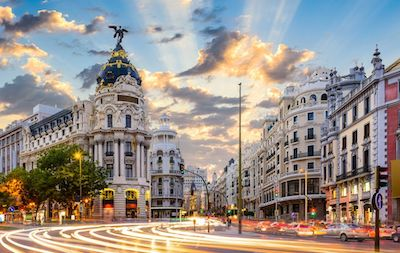
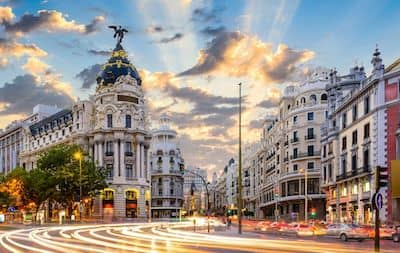
image optimization

diff --git a/index.html b/index.html
@@ -166,15 +166,15 @@
 									<div class="6u 12u(narrower)">
 
 										<section>
-											<a href="https://www.meetup.com/Tokyo-Stoicism-Meetup-Group/" target="_blank" class="image featured"><img src="images/tokyo-stoics.jpeg" alt="Tokyo Stoics" /></a>
+											<a href="https://nestoics.org/" target="_blank" class="image featured"><img src="images/new-england.jpeg" alt="New England Stoics" /></a>
 											<header>
-												<h3>The Tokyo Stoics</h3>
+												<h3>New England Stoics</h3>
 											</header>
 												<p class="center-margin">
-													<strong>Location:</strong> Tokyo, Japan
+													<strong>Location:</strong> Boston, MA, USA
 												</p>
 												<p class="center-margin">
-													<strong>Facilitator:</strong> Carl Herring
+													<strong>Facilitator:</strong> Pete Fagella
 												</p>
 										</section>
 
@@ -182,15 +182,15 @@
 									<div class="6u 12u(narrower)">
 
 										<section>
-											<a href="https://www.meetup.com/Stoics-Singapore/" target="_blank" class="image featured"><img src="images/singapore-stoics.jpeg" alt="Singapore Stoics" /></a>
+											<a href="https://www.facebook.com/groups/1827387654002004/" target="_blank" class="image featured"><img src="images/scotland.jpeg" alt="Scotland Stoics" /></a>
 											<header>
-												<h3>Stoics Singapore</h3>
+												<h3>Scotland Stoics</h3>
 											</header>
 												<p class="center-margin">
-													<strong>Location:</strong> Singapore, Singapore
+													<strong>Location:</strong> Edinburgh, Scotland, UK
 												</p>
 												<p class="center-margin">
-													<strong>Facilitators:</strong> Yong Ka Vee
+													<strong>Facilitators:</strong> Colin Hay
 												</p>
 										</section>
 
@@ -200,15 +200,15 @@
 									<div class="6u 12u(narrower)">
 
 										<section>
-											<a href="https://www.facebook.com/groups/478740189519819" target="_blank" class="image featured"><img src="images/estoicismo.jpeg" alt=" Estoicismo Practico (Stoicism México)" /></a>
+											<a href="https://mailchi.mp/7644c9c6a191/stoa-madrid" target="_blank" class="image featured"><img src="images/madrid.jpg" alt="Stoa Madrid" /></a>
 											<header>
-												<h3>Estoicismo Práctico</h3>
+												<h3>Stoa Madrid</h3>
 											</header>
 												<p class="center-margin">
-													<strong>Location:</strong> Guadalajara, Mexico
+													<strong>Location:</strong> Madrid, Spain
 												</p>
 												<p class="center-margin">
-													<strong>Facilitator:</strong> Juan Alberto Perez
+													<strong>Facilitator:</strong> Kellys Andreína Rodríguez
 												</p>
 										</section>
 
@@ -216,15 +216,15 @@
 									<div class="6u 12u(narrower)">
 
 										<section>
-											<a href="https://www.meetup.com/de-DE/Frankfurt-Stoics/" target="_blank" class="image featured"><img src="images/frankfurt-stoics.jpeg" alt="Frankfurt Stoics" /></a>
+											<a href="https://www.meetup.com/MKE-Stoic-Fellowship/" target="_blank" class="image featured"><img src="images/milwaukee.jpeg" alt="Milwaukee Stoics" /></a>
 											<header>
-												<h3>Frankfurt Stoics </h3>
+												<h3>MKE Stoic Fellowship</h3>
 											</header>
 												<p class="center-margin">
-													<strong>Location:</strong> Frankfurt am Main, Germany
+													<strong>Location:</strong> Milwaukee, WI, USA
 												</p>
 												<p class="center-margin">
-													<strong>Facilitator:</strong> Eduard Szekeres
+													<strong>Facilitator:</strong> Greg Sadler
 												</p>
 										</section>
 
